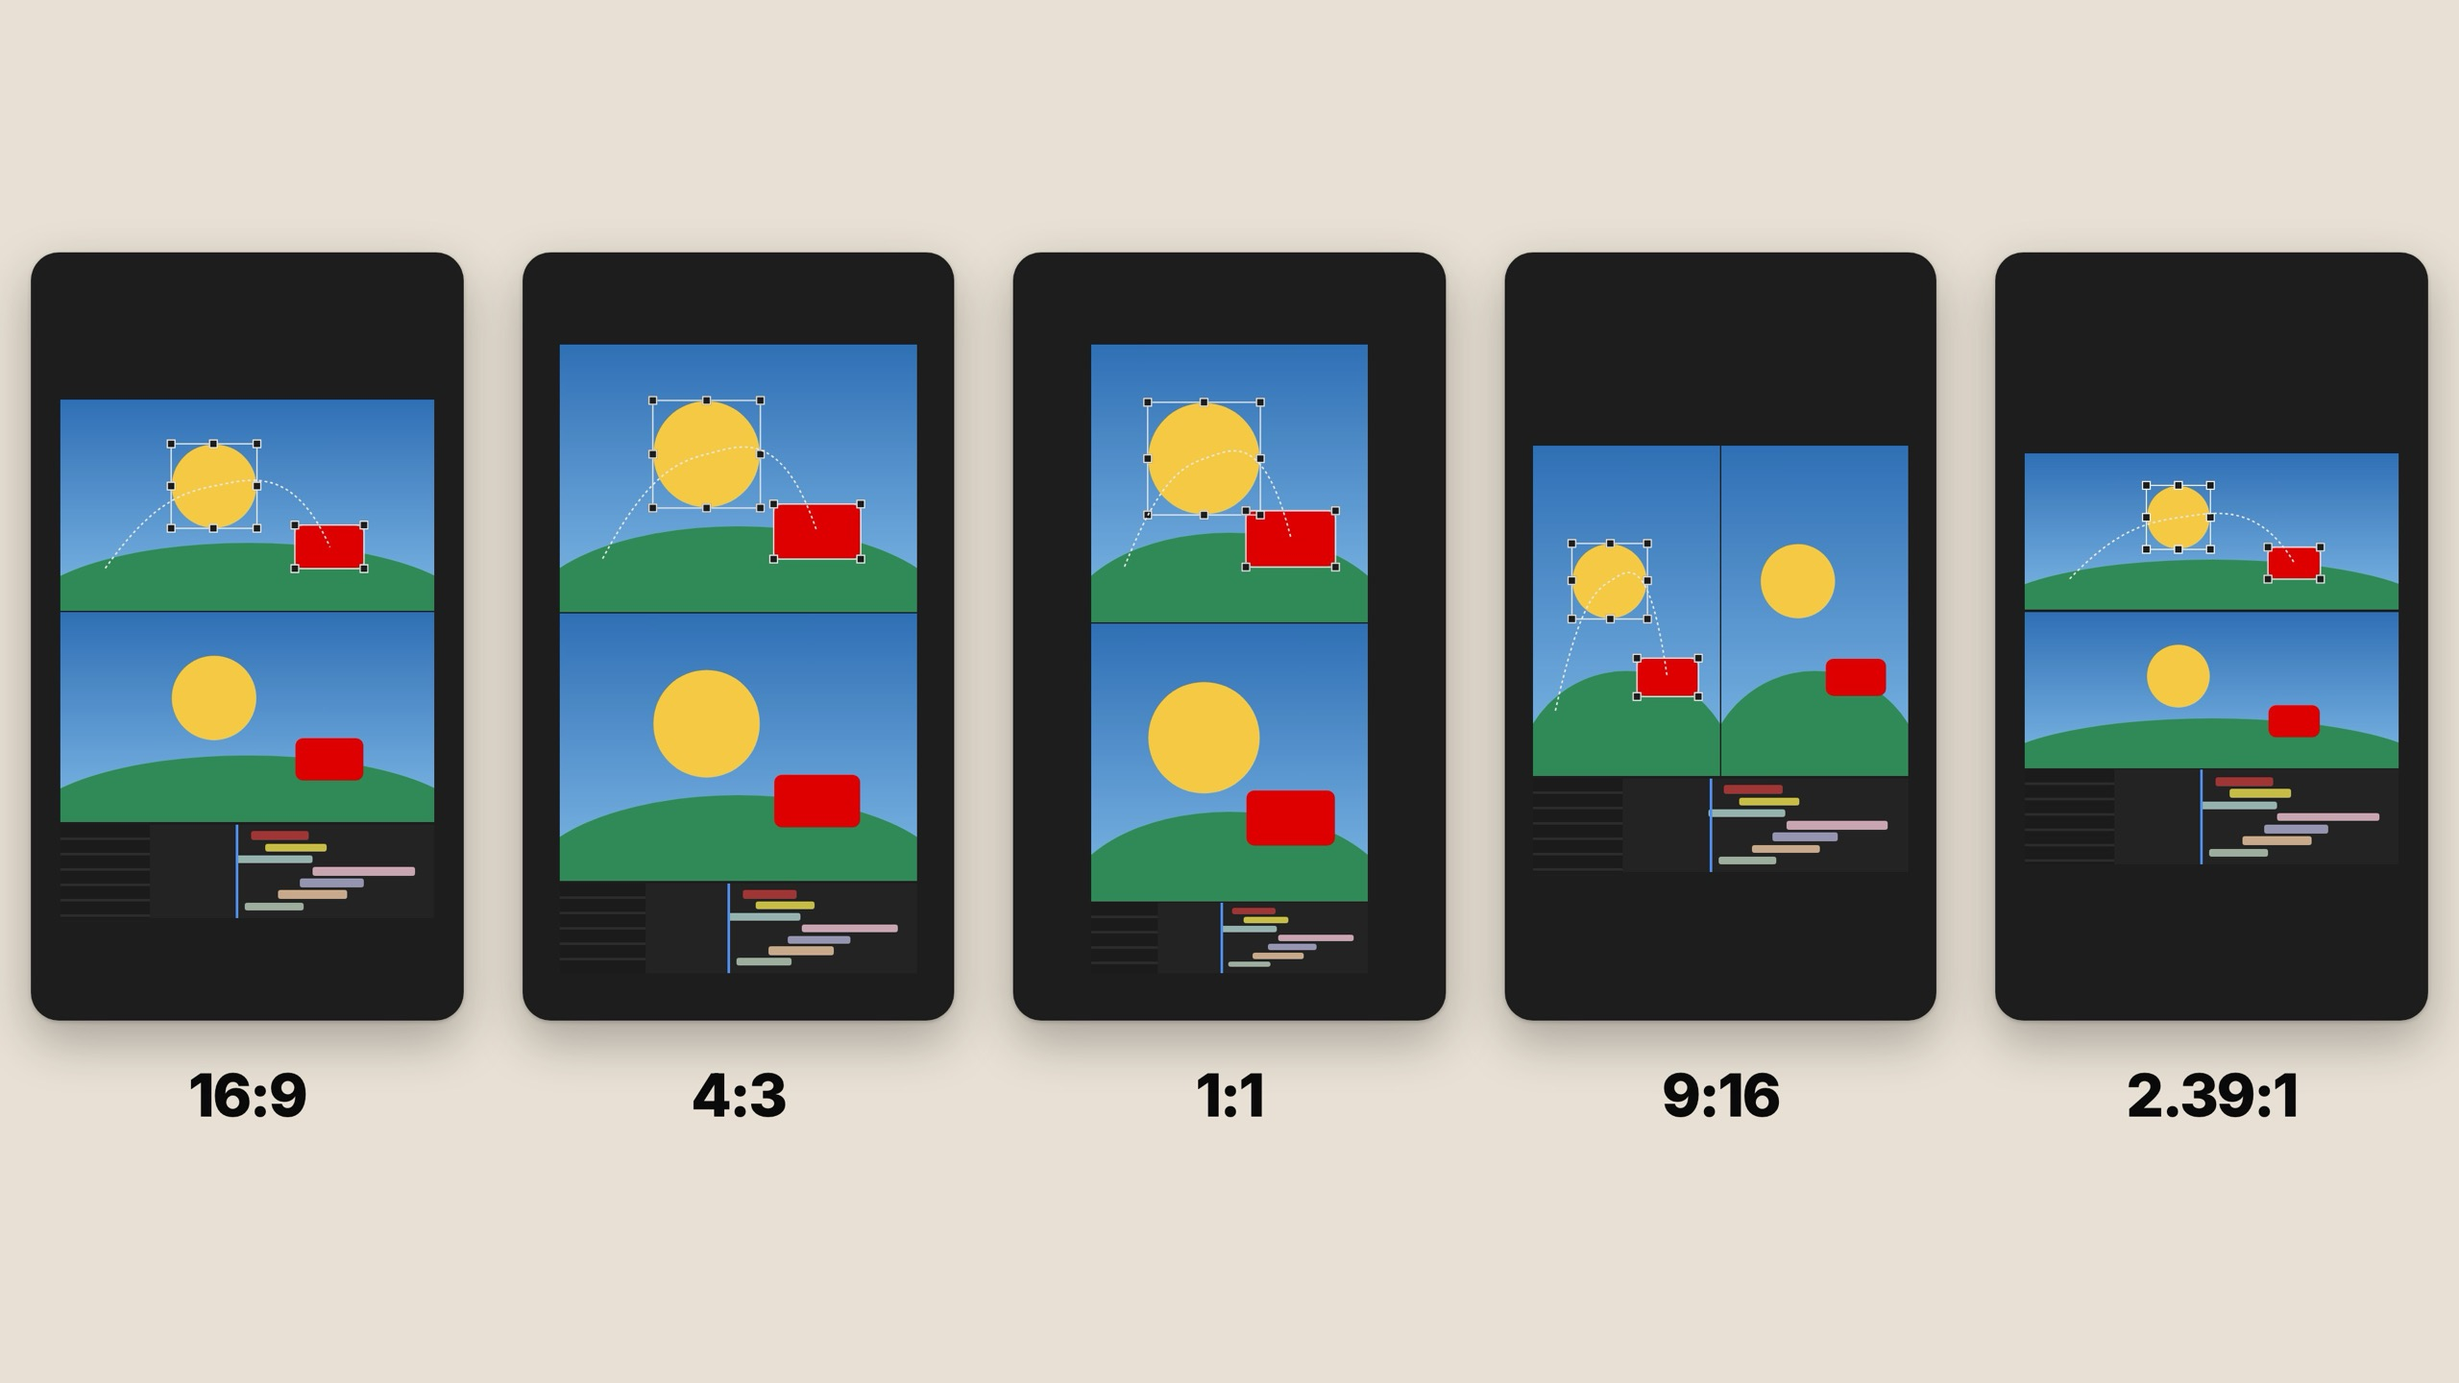
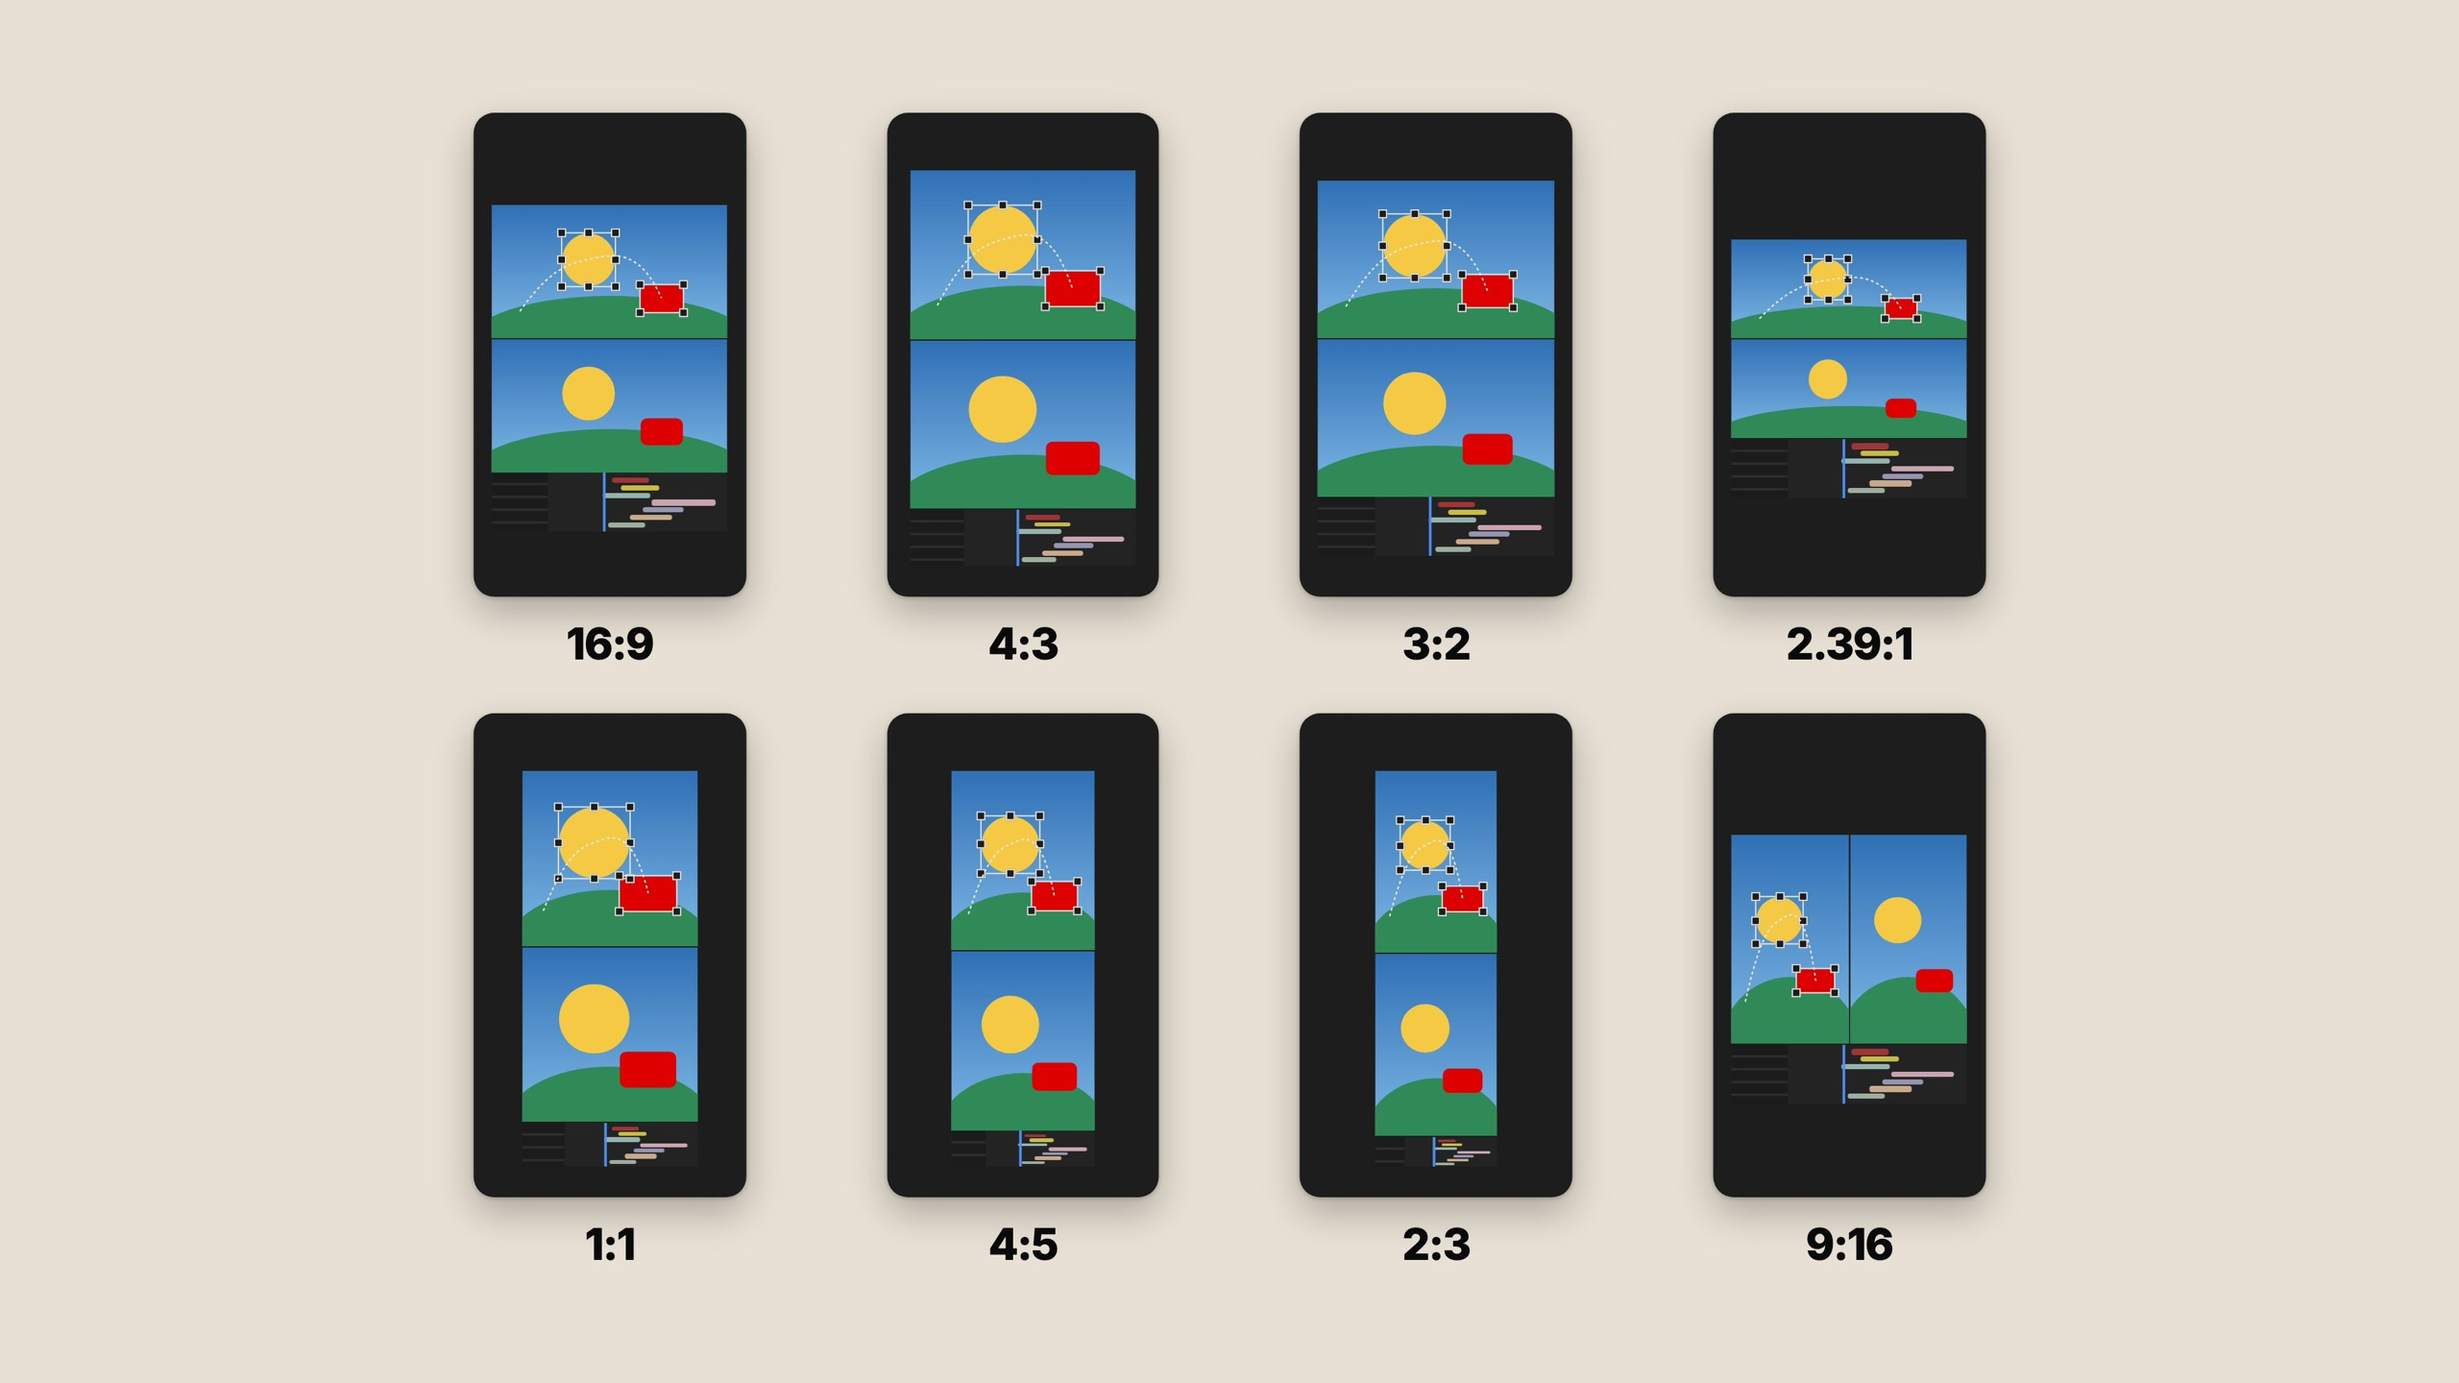
Receipts ratios still: eight comp shapes in two rows of four

diff --git a/assets/js/plugins.js b/assets/js/plugins.js
@@ -154,9 +154,9 @@ const plugins = [
       { src: 'projects/plugins/receipts-ui-options.jpg?v=7', alt: 'The Receipts panel with its options open: primary, background, range, render and timeline' }
     ],
     /* a 16:9 still of what Receipts lays out for different comp shapes: the Stack look's real boxes
-       (lib/compose.js plan) for 16:9, 4:3, 1:1, 9:16 and 2.39:1 comps, drawn as shapes
+       (lib/compose.js plan) for eight comp shapes, two rows of four, drawn as shapes
        (receipts repo tools/promo/ratios/) */
-    wide: { src: 'projects/plugins/receipts-ratios.jpg?v=1', alt: 'The 9:16 video Receipts lays out for a 16:9, 4:3, 1:1, 9:16 and 2.39:1 comp' },
+    wide: { src: 'projects/plugins/receipts-ratios.jpg?v=2', alt: 'The 9:16 video Receipts lays out for 16:9, 4:3, 3:2, 2.39:1, 1:1, 4:5, 2:3 and 9:16 comps' },
     intro: `<p>Hit Generate and Receipts steps through your comp one frame at a time, screenshots the real viewer with every handle, path and gizmo After Effects draws, shoots the whole timeline, renders the comp, and builds a finished 4K 9:16 process video. No screen recording, no cropping in Premiere.</p>
 <p>It finds the viewer and the timeline on its own and fits the comp in the viewer, then puts your zoom, playhead and selection back when it's done. Preview shows one frame in every look before you commit.</p>`,
     features: [

diff --git a/bodyarmor-powerade.html b/bodyarmor-powerade.html
@@ -19,7 +19,7 @@
 <link rel="preconnect" href="https://fonts.googleapis.com">
 <link rel="preconnect" href="https://fonts.gstatic.com" crossorigin>
 <link href="https://fonts.googleapis.com/css2?family=Inter:ital,wght@0,300..700;1,300..700&display=swap" rel="stylesheet">
-<link rel="stylesheet" href="assets/css/site.css?v=401">
+<link rel="stylesheet" href="assets/css/site.css?v=402">
 <style>
   /* First paint: the header (logo + menu) stays put from page to page; the
      project itself builds top down (site.css, .project load-in). */
@@ -100,9 +100,9 @@
 </footer>
 
 <script>window.PROJECT_SLUG = "bodyarmor-powerade";</script>
-<script src="assets/js/projects.js?v=401"></script>
-<script src="assets/js/project-page.js?v=401"></script>
-<script src="assets/js/site.js?v=401"></script>
+<script src="assets/js/projects.js?v=402"></script>
+<script src="assets/js/project-page.js?v=402"></script>
+<script src="assets/js/site.js?v=402"></script>
 <!-- GoatCounter: page views, no cookies. Skips itself on localhost. -->
 <script data-goatcounter="https://michaelloya.goatcounter.com/count" async src="https://gc.zgo.at/count.js"></script>
 </body>

diff --git a/university-union.html b/university-union.html
@@ -19,7 +19,7 @@
 <link rel="preconnect" href="https://fonts.googleapis.com">
 <link rel="preconnect" href="https://fonts.gstatic.com" crossorigin>
 <link href="https://fonts.googleapis.com/css2?family=Inter:ital,wght@0,300..700;1,300..700&display=swap" rel="stylesheet">
-<link rel="stylesheet" href="assets/css/site.css?v=401">
+<link rel="stylesheet" href="assets/css/site.css?v=402">
 <style>
   /* First paint: the header (logo + menu) stays put from page to page; the
      project itself builds top down (site.css, .project load-in). */
@@ -100,9 +100,9 @@
 </footer>
 
 <script>window.PROJECT_SLUG = "university-union";</script>
-<script src="assets/js/projects.js?v=401"></script>
-<script src="assets/js/project-page.js?v=401"></script>
-<script src="assets/js/site.js?v=401"></script>
+<script src="assets/js/projects.js?v=402"></script>
+<script src="assets/js/project-page.js?v=402"></script>
+<script src="assets/js/site.js?v=402"></script>
 <!-- GoatCounter: page views, no cookies. Skips itself on localhost. -->
 <script data-goatcounter="https://michaelloya.goatcounter.com/count" async src="https://gc.zgo.at/count.js"></script>
 </body>

diff --git a/where-it-hurts.html b/where-it-hurts.html
@@ -19,7 +19,7 @@
 <link rel="preconnect" href="https://fonts.googleapis.com">
 <link rel="preconnect" href="https://fonts.gstatic.com" crossorigin>
 <link href="https://fonts.googleapis.com/css2?family=Inter:ital,wght@0,300..700;1,300..700&display=swap" rel="stylesheet">
-<link rel="stylesheet" href="assets/css/site.css?v=401">
+<link rel="stylesheet" href="assets/css/site.css?v=402">
 <style>
   /* First paint: the header (logo + menu) stays put from page to page; the
      project itself builds top down (site.css, .project load-in). */
@@ -100,9 +100,9 @@
 </footer>
 
 <script>window.PROJECT_SLUG = "where-it-hurts";</script>
-<script src="assets/js/projects.js?v=401"></script>
-<script src="assets/js/project-page.js?v=401"></script>
-<script src="assets/js/site.js?v=401"></script>
+<script src="assets/js/projects.js?v=402"></script>
+<script src="assets/js/project-page.js?v=402"></script>
+<script src="assets/js/site.js?v=402"></script>
 <!-- GoatCounter: page views, no cookies. Skips itself on localhost. -->
 <script data-goatcounter="https://michaelloya.goatcounter.com/count" async src="https://gc.zgo.at/count.js"></script>
 </body>

diff --git a/miscellaneous.html b/miscellaneous.html
@@ -19,7 +19,7 @@
 <link rel="preconnect" href="https://fonts.googleapis.com">
 <link rel="preconnect" href="https://fonts.gstatic.com" crossorigin>
 <link href="https://fonts.googleapis.com/css2?family=Inter:ital,wght@0,300..700;1,300..700&display=swap" rel="stylesheet">
-<link rel="stylesheet" href="assets/css/site.css?v=401">
+<link rel="stylesheet" href="assets/css/site.css?v=402">
 <style>
   /* First paint: the header (logo + menu) stays put from page to page; the
      project itself builds top down (site.css, .project load-in). */
@@ -100,9 +100,9 @@
 </footer>
 
 <script>window.PROJECT_SLUG = "miscellaneous";</script>
-<script src="assets/js/projects.js?v=401"></script>
-<script src="assets/js/project-page.js?v=401"></script>
-<script src="assets/js/site.js?v=401"></script>
+<script src="assets/js/projects.js?v=402"></script>
+<script src="assets/js/project-page.js?v=402"></script>
+<script src="assets/js/site.js?v=402"></script>
 <!-- GoatCounter: page views, no cookies. Skips itself on localhost. -->
 <script data-goatcounter="https://michaelloya.goatcounter.com/count" async src="https://gc.zgo.at/count.js"></script>
 </body>

diff --git a/album-covers.html b/album-covers.html
@@ -19,7 +19,7 @@
 <link rel="preconnect" href="https://fonts.googleapis.com">
 <link rel="preconnect" href="https://fonts.gstatic.com" crossorigin>
 <link href="https://fonts.googleapis.com/css2?family=Inter:ital,wght@0,300..700;1,300..700&display=swap" rel="stylesheet">
-<link rel="stylesheet" href="assets/css/site.css?v=401">
+<link rel="stylesheet" href="assets/css/site.css?v=402">
 <style>
   /* First paint: the header (logo + menu) stays put from page to page; the
      project itself builds top down (site.css, .project load-in). */
@@ -100,9 +100,9 @@
 </footer>
 
 <script>window.PROJECT_SLUG = "album-covers";</script>
-<script src="assets/js/projects.js?v=401"></script>
-<script src="assets/js/project-page.js?v=401"></script>
-<script src="assets/js/site.js?v=401"></script>
+<script src="assets/js/projects.js?v=402"></script>
+<script src="assets/js/project-page.js?v=402"></script>
+<script src="assets/js/site.js?v=402"></script>
 <!-- GoatCounter: page views, no cookies. Skips itself on localhost. -->
 <script data-goatcounter="https://michaelloya.goatcounter.com/count" async src="https://gc.zgo.at/count.js"></script>
 </body>

diff --git a/loya.html b/loya.html
@@ -19,7 +19,7 @@
 <link rel="preconnect" href="https://fonts.googleapis.com">
 <link rel="preconnect" href="https://fonts.gstatic.com" crossorigin>
 <link href="https://fonts.googleapis.com/css2?family=Inter:ital,wght@0,300..700;1,300..700&display=swap" rel="stylesheet">
-<link rel="stylesheet" href="assets/css/site.css?v=401">
+<link rel="stylesheet" href="assets/css/site.css?v=402">
 <style>
   /* First paint: the header (logo + menu) stays put from page to page; the
      project itself builds top down (site.css, .project load-in). */
@@ -100,9 +100,9 @@
 </footer>
 
 <script>window.PROJECT_SLUG = "loya";</script>
-<script src="assets/js/projects.js?v=401"></script>
-<script src="assets/js/project-page.js?v=401"></script>
-<script src="assets/js/site.js?v=401"></script>
+<script src="assets/js/projects.js?v=402"></script>
+<script src="assets/js/project-page.js?v=402"></script>
+<script src="assets/js/site.js?v=402"></script>
 <!-- GoatCounter: page views, no cookies. Skips itself on localhost. -->
 <script data-goatcounter="https://michaelloya.goatcounter.com/count" async src="https://gc.zgo.at/count.js"></script>
 </body>

diff --git a/clippings.html b/clippings.html
@@ -18,7 +18,7 @@
 
 <link rel="preconnect" href="https://fonts.googleapis.com">
 <link rel="preconnect" href="https://fonts.gstatic.com" crossorigin>
-<link rel="stylesheet" href="assets/css/site.css?v=401">
+<link rel="stylesheet" href="assets/css/site.css?v=402">
 <style>
   /* First-paint guard. Applies before anything else resolves, so the page
      never flashes raw content before the load-in animations start.
@@ -101,10 +101,10 @@
 </footer>
 
 <script>window.PLUGIN_SLUG = "clippings";</script>
-<script src="assets/js/plugins.js?v=401"></script>
-<script src="assets/js/panel-demos.js?v=401"></script>
-<script src="assets/js/plugin-page.js?v=401"></script>
-<script src="assets/js/site.js?v=401"></script>
+<script src="assets/js/plugins.js?v=402"></script>
+<script src="assets/js/panel-demos.js?v=402"></script>
+<script src="assets/js/plugin-page.js?v=402"></script>
+<script src="assets/js/site.js?v=402"></script>
 <!-- GoatCounter: page views, no cookies. Skips itself on localhost. -->
 <script data-goatcounter="https://michaelloya.goatcounter.com/count" async src="https://gc.zgo.at/count.js"></script>
 </body>

diff --git a/receipts.html b/receipts.html
@@ -18,7 +18,7 @@
 
 <link rel="preconnect" href="https://fonts.googleapis.com">
 <link rel="preconnect" href="https://fonts.gstatic.com" crossorigin>
-<link rel="stylesheet" href="assets/css/site.css?v=401">
+<link rel="stylesheet" href="assets/css/site.css?v=402">
 <style>
   /* First-paint guard. Applies before anything else resolves, so the page
      never flashes raw content before the load-in animations start.
@@ -101,10 +101,10 @@
 </footer>
 
 <script>window.PLUGIN_SLUG = "receipts";</script>
-<script src="assets/js/plugins.js?v=401"></script>
-<script src="assets/js/panel-demos.js?v=401"></script>
-<script src="assets/js/plugin-page.js?v=401"></script>
-<script src="assets/js/site.js?v=401"></script>
+<script src="assets/js/plugins.js?v=402"></script>
+<script src="assets/js/panel-demos.js?v=402"></script>
+<script src="assets/js/plugin-page.js?v=402"></script>
+<script src="assets/js/site.js?v=402"></script>
 <!-- GoatCounter: page views, no cookies. Skips itself on localhost. -->
 <script data-goatcounter="https://michaelloya.goatcounter.com/count" async src="https://gc.zgo.at/count.js"></script>
 </body>

diff --git a/index.html b/index.html
@@ -19,7 +19,7 @@
 <link rel="preconnect" href="https://fonts.googleapis.com">
 <link rel="preconnect" href="https://fonts.gstatic.com" crossorigin>
 <link rel="stylesheet" href="https://use.typekit.net/oft2xxg.css">
-<link rel="stylesheet" href="assets/css/site.css?v=401">
+<link rel="stylesheet" href="assets/css/site.css?v=402">
 <style>
   /* First-paint guard. Applies before anything else resolves, so the page
      never flashes raw content before the load-in animations start.
@@ -127,9 +127,9 @@
 </footer>
 
 <!-- ══ PROJECT DETAIL ══ -->
-<script src="assets/js/projects.js?v=401"></script>
-<script src="assets/js/hero.js?v=401"></script>
-<script src="assets/js/site.js?v=401"></script>
+<script src="assets/js/projects.js?v=402"></script>
+<script src="assets/js/hero.js?v=402"></script>
+<script src="assets/js/site.js?v=402"></script>
 <!-- GoatCounter: page views, no cookies. Skips itself on localhost. -->
 <script data-goatcounter="https://michaelloya.goatcounter.com/count" async src="https://gc.zgo.at/count.js"></script>
 </body>

diff --git a/gh-midi.html b/gh-midi.html
@@ -18,7 +18,7 @@
 
 <link rel="preconnect" href="https://fonts.googleapis.com">
 <link rel="preconnect" href="https://fonts.gstatic.com" crossorigin>
-<link rel="stylesheet" href="assets/css/site.css?v=401">
+<link rel="stylesheet" href="assets/css/site.css?v=402">
 <style>
   /* First-paint guard. Applies before anything else resolves, so the page
      never flashes raw content before the load-in animations start.
@@ -101,9 +101,9 @@
 </footer>
 
 <script>window.PLUGIN_SLUG = "gh-midi";</script>
-<script src="assets/js/plugins.js?v=401"></script>
-<script src="assets/js/plugin-page.js?v=401"></script>
-<script src="assets/js/site.js?v=401"></script>
+<script src="assets/js/plugins.js?v=402"></script>
+<script src="assets/js/plugin-page.js?v=402"></script>
+<script src="assets/js/site.js?v=402"></script>
 <!-- GoatCounter: page views, no cookies. Skips itself on localhost. -->
 <script data-goatcounter="https://michaelloya.goatcounter.com/count" async src="https://gc.zgo.at/count.js"></script>
 </body>

diff --git a/all.html b/all.html
@@ -18,7 +18,7 @@
 
 <link rel="preconnect" href="https://fonts.googleapis.com">
 <link rel="preconnect" href="https://fonts.gstatic.com" crossorigin>
-<link rel="stylesheet" href="assets/css/site.css?v=401">
+<link rel="stylesheet" href="assets/css/site.css?v=402">
 <style>
   /* First-paint guard. Applies before anything else resolves, so the page
      never flashes raw content before the load-in animations start.
@@ -97,9 +97,9 @@
   </div>
 </footer>
 
-<script src="assets/js/projects.js?v=401"></script>
-<script src="assets/js/plugins.js?v=401"></script>
-<script src="assets/js/site.js?v=401"></script>
+<script src="assets/js/projects.js?v=402"></script>
+<script src="assets/js/plugins.js?v=402"></script>
+<script src="assets/js/site.js?v=402"></script>
 <!-- GoatCounter: page views, no cookies. Skips itself on localhost. -->
 <script data-goatcounter="https://michaelloya.goatcounter.com/count" async src="https://gc.zgo.at/count.js"></script>
 </body>
